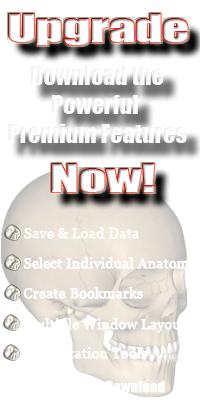
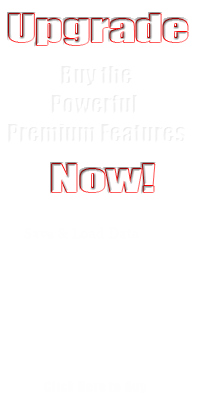
Got final ad for the Premium features. Added a bit more space for the ad and task menu.
git-svn-id: https://192.168.3.139:8443/svn/Medical/trunk@2598 956a8c8d-885e-cb46-a0b9-a2f355b4c364

diff --git a/Standalone/GUI/TaskMenu/TaskMenu.cs b/Standalone/GUI/TaskMenu/TaskMenu.cs
@@ -152,8 +152,8 @@ namespace Medical.GUI
                 if (ShowAdImage && AdImageKey != null)
                 {
                     firstTimeShown = false;
-                    iconScroller.setPosition(202, iconScroller.Top);
-                    iconScroller.setSize(widget.Width - 200, iconScroller.Height);
+                    iconScroller.setPosition(232, iconScroller.Top);
+                    iconScroller.setSize(widget.Width - 230, iconScroller.Height);
                     iconGrid.resizeAndLayout(iconScroller.ClientCoord.width);
                     adImage = (StaticImage)widget.createWidgetT("StaticImage", "StaticImage", 2, iconScroller.Top, 200, 400, Align.Left | Align.Top, "");
                     adImage.setItemResource(AdImageKey);
